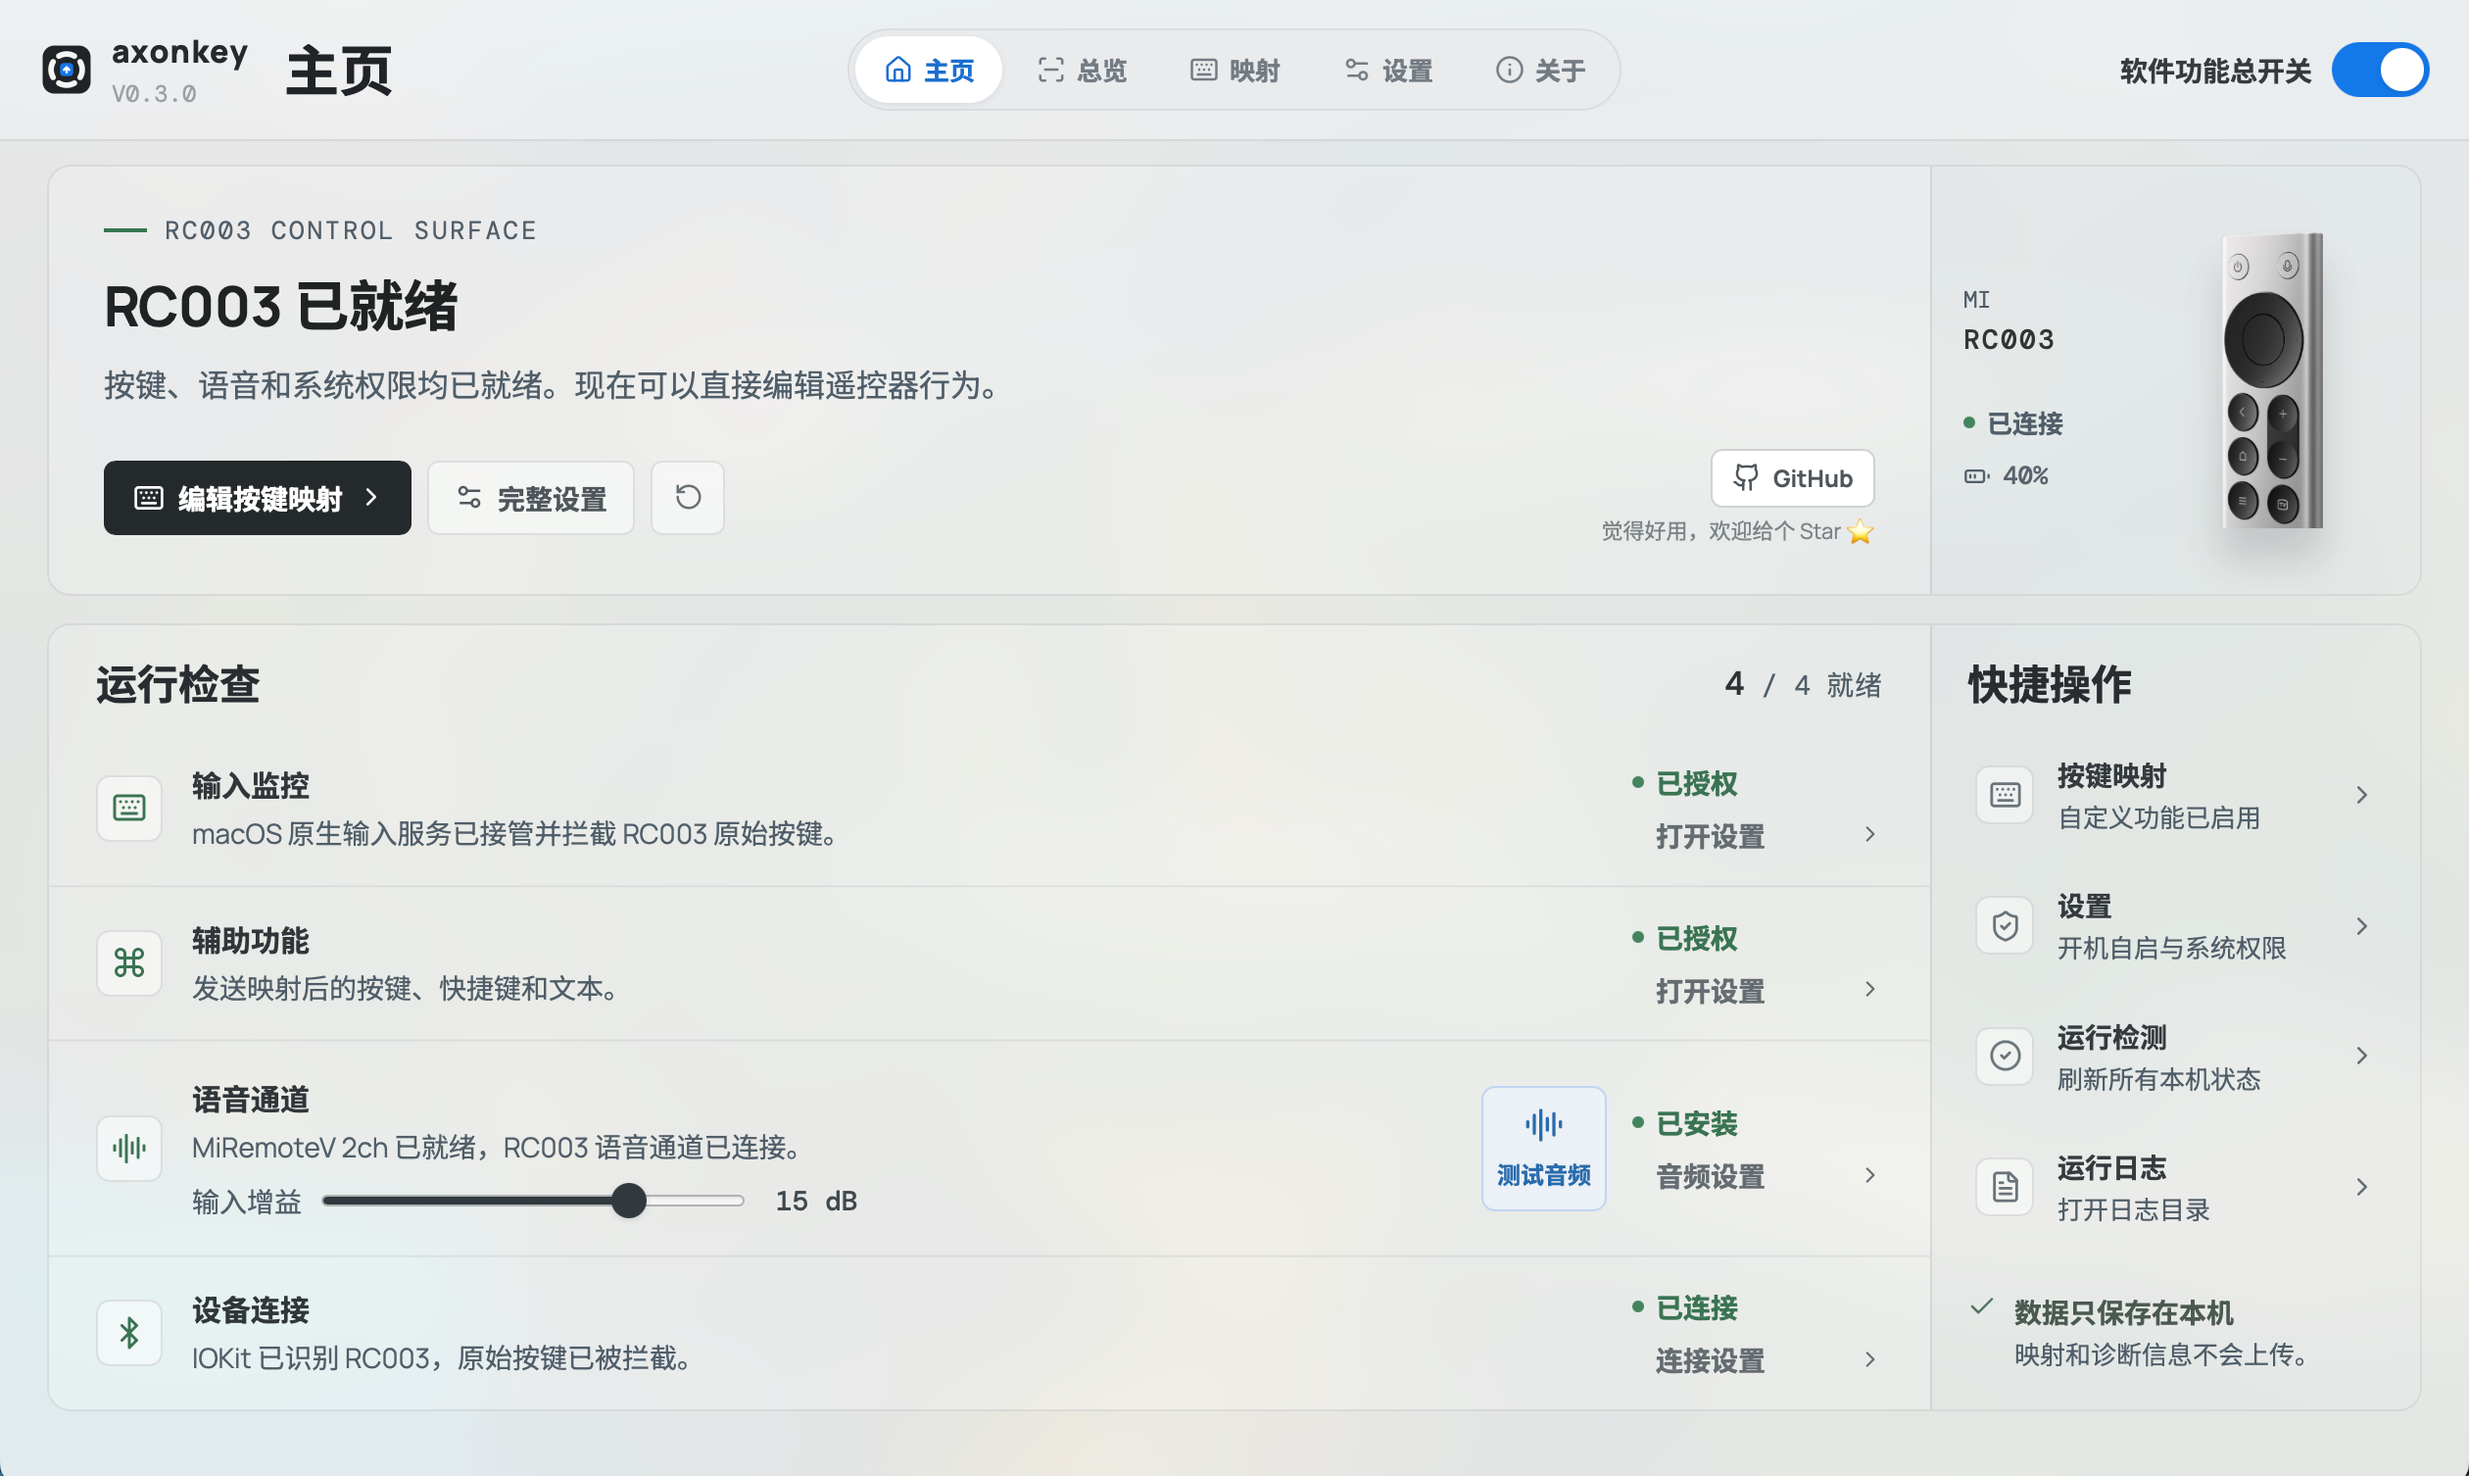
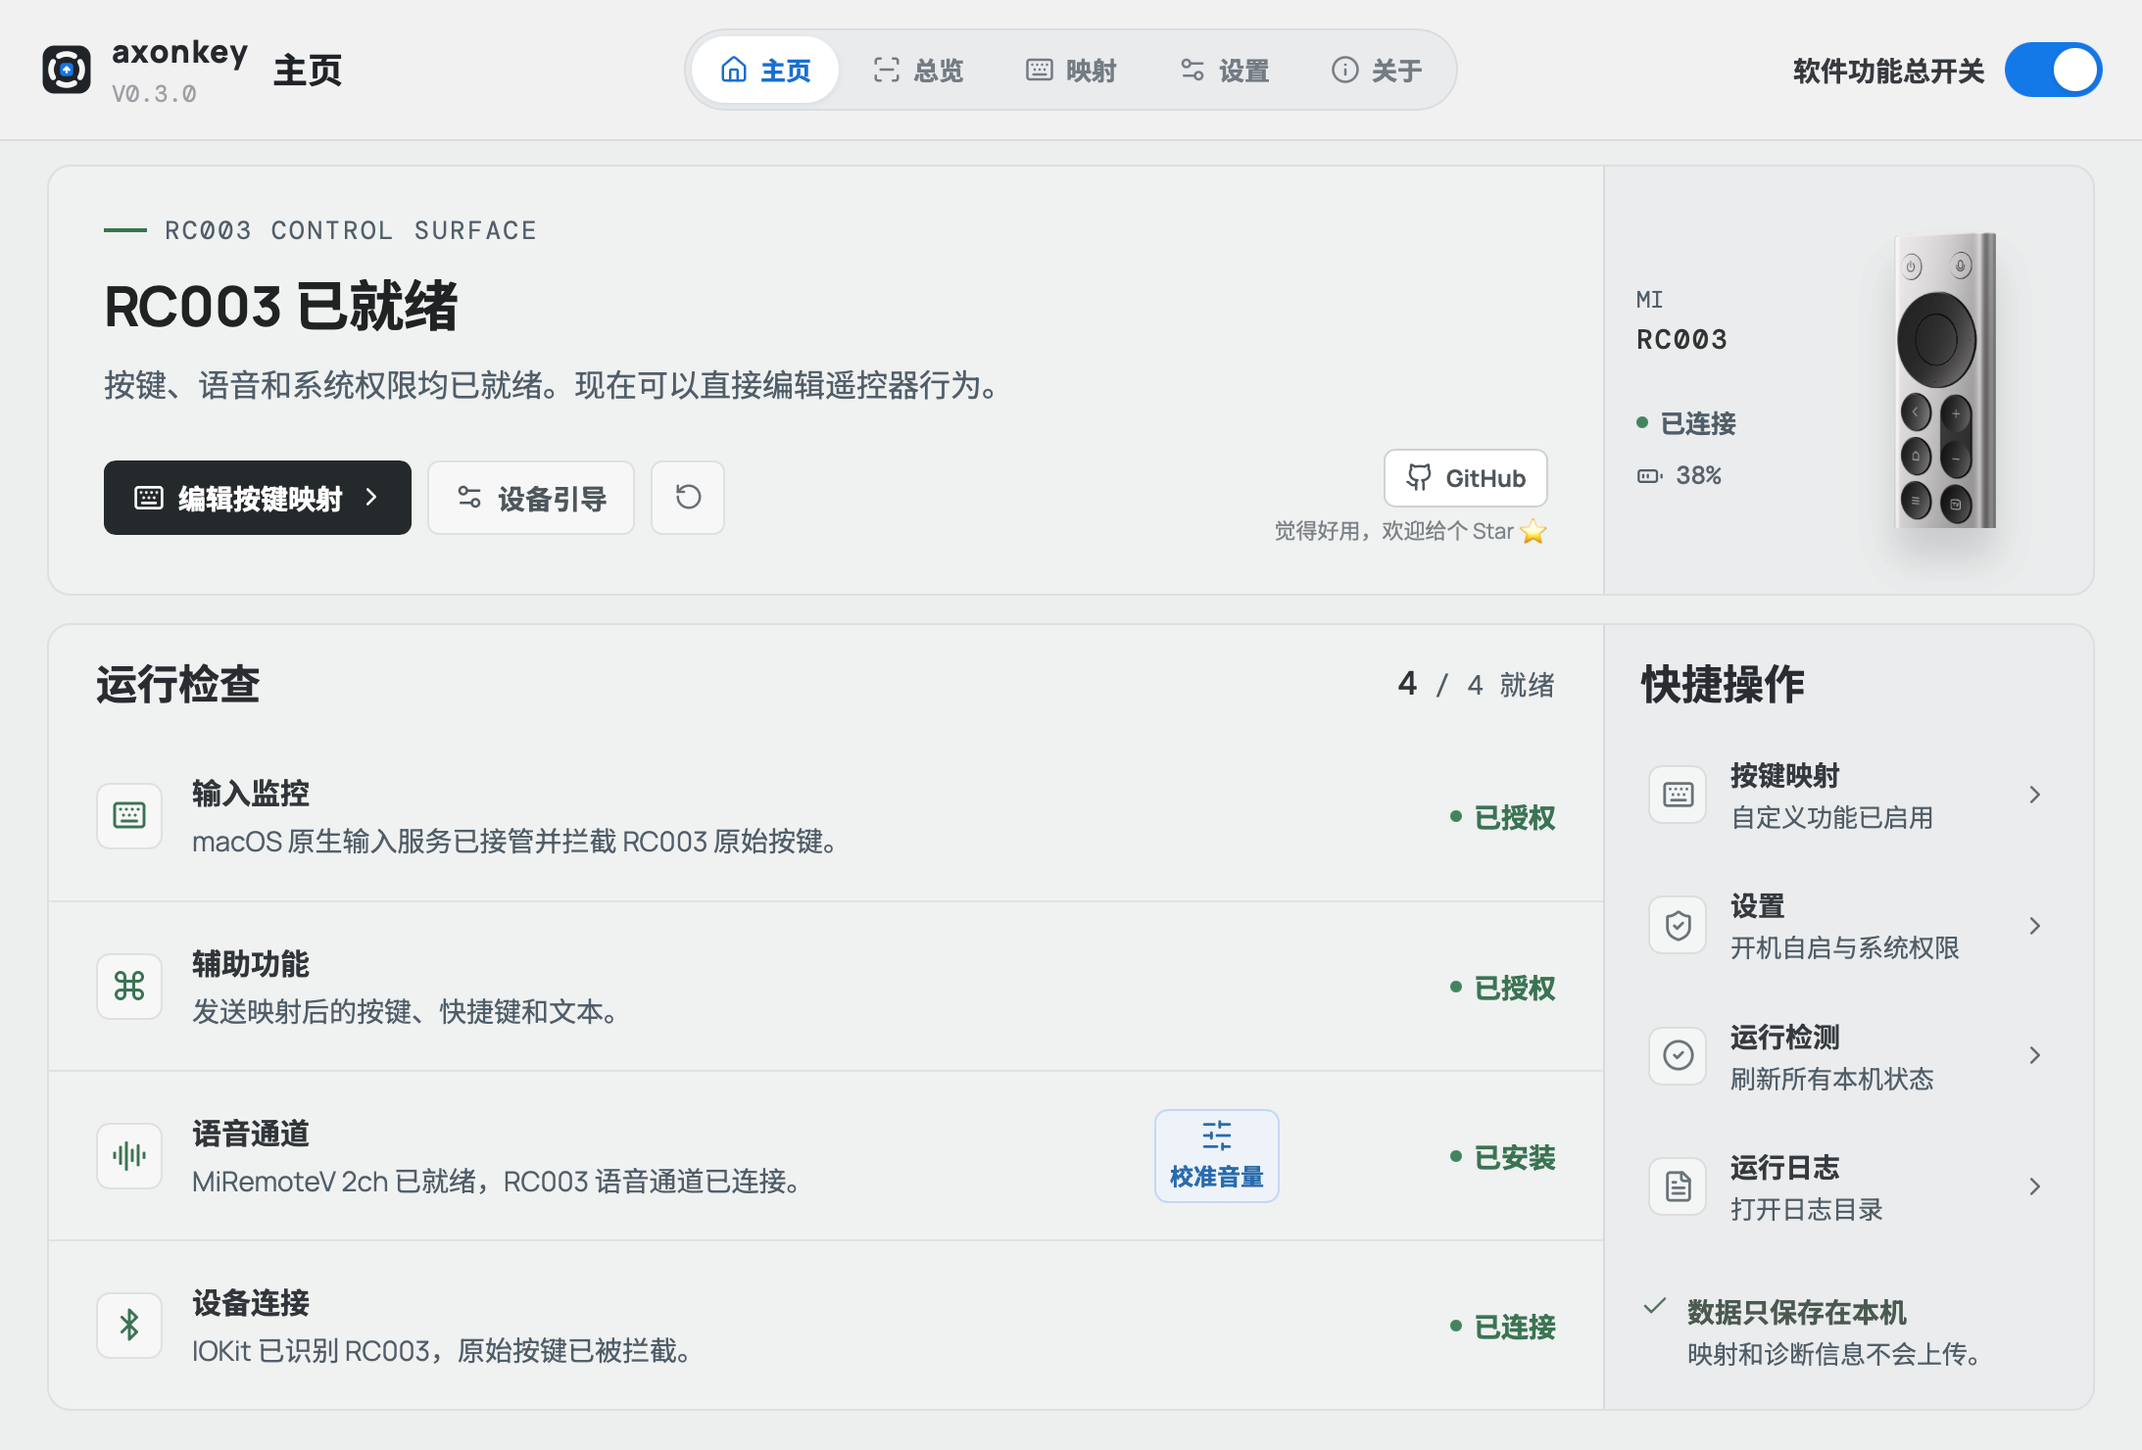
Document README screenshot compression guidelines

diff --git a/AGENTS.md b/AGENTS.md
@@ -1,3 +1,3 @@
 # Project skills
 
-新增或修改 Axonkey 桌面应用的页面、设置项、交互功能或 UI 布局时，使用 [axonkey-ui](.agents/skills/axonkey-ui/SKILL.md)。官网 `website/` 和独立诊断 Demo 不默认套用此 skill。
+新增或修改 Axonkey 桌面应用的页面、设置项、交互功能或 UI 布局，以及更新 README 界面截图时，使用 [axonkey-ui](.agents/skills/axonkey-ui/SKILL.md)。官网 `website/` 和独立诊断 Demo 不默认套用此 skill。
